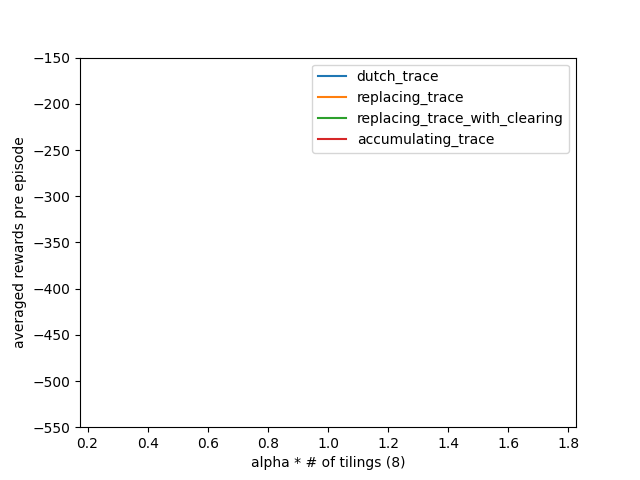
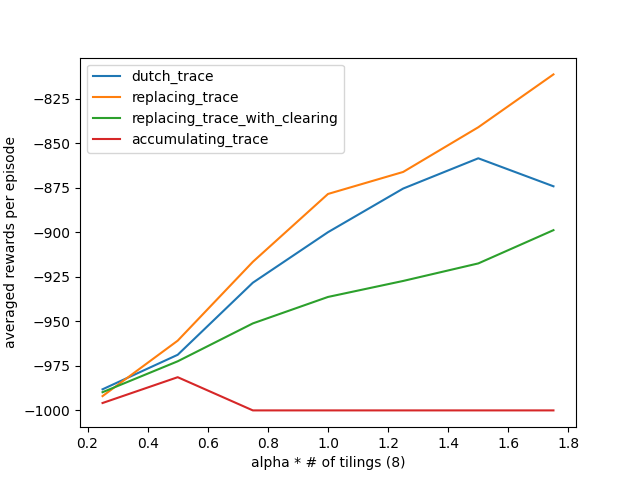
...

diff --git a/PA3/run_me.py b/PA3/run_me.py
@@ -83,29 +83,26 @@ def figure_12_10():
     runs = 5
     episodes = 50
     alphas = np.arange(1, 8) / 4.0
-    lams = [0.99, 0.9, 0.5, 0]
+    lam = 0.9
 
-    steps = np.zeros((len(lams), len(alphas), runs, episodes))
-    with tqdm(total=runs * episodes * len(lams) * len(alphas), ncols=100) as progress:
-        for lamInd, lam in enumerate(lams):
-            for alphaInd, alpha in enumerate(alphas):
-                for run in range(runs):
-                    evaluator = sarsa_lam.setEvaluator(alpha, lam)
-                    for ep in range(episodes):
-                        steps[lamInd, alphaInd, run, ep] = play(mountain_car, evaluator)
-                        progress.update()
+    steps = np.zeros((len(alphas), runs, episodes))
+    with tqdm(total=runs * episodes * len(alphas), ncols=100) as progress:
+        for alphaInd, alpha in enumerate(alphas):
+            for run in range(runs):
+                evaluator = sarsa_lam.setEvaluator(alpha, lam)
+                for ep in range(episodes):
+                    steps[alphaInd, run, ep] = play(mountain_car, evaluator)
+                    progress.update()
 
     # average over episodes
-    steps = np.mean(steps, axis=3)
-
-    # average over runs
     steps = np.mean(steps, axis=2)
 
-    for lamInd, lam in enumerate(lams):
-        plt.plot(alphas, steps[lamInd, :], label='lambda = %s' % (str(lam)))
+    # average over runs
+    steps = np.mean(steps, axis=1)
+
+    plt.plot(alphas, steps[:], label='lambda = %s' % (str(lam)))
     plt.xlabel('alpha * # of tilings (8)')
     plt.ylabel('averaged steps per episode')
-    plt.ylim([180, 300])
     plt.legend()
 
     plt.savefig('images/figure_12_10.png')
@@ -148,8 +145,7 @@ def figure_12_11():
     for traceInd, trace in enumerate(traceTypes):
         plt.plot(alphas, rewards[traceInd, :], label=trace.__name__)
     plt.xlabel('alpha * # of tilings (8)')
-    plt.ylabel('averaged rewards pre episode')
-    plt.ylim([-550, -150])
+    plt.ylabel('averaged rewards per episode')
     plt.legend()
 
     plt.savefig('images/figure_12_11.png')
@@ -158,4 +154,4 @@ def figure_12_11():
 
 if __name__ == '__main__':
     figure_12_10()
-    # figure_12_11()
+    figure_12_11()
